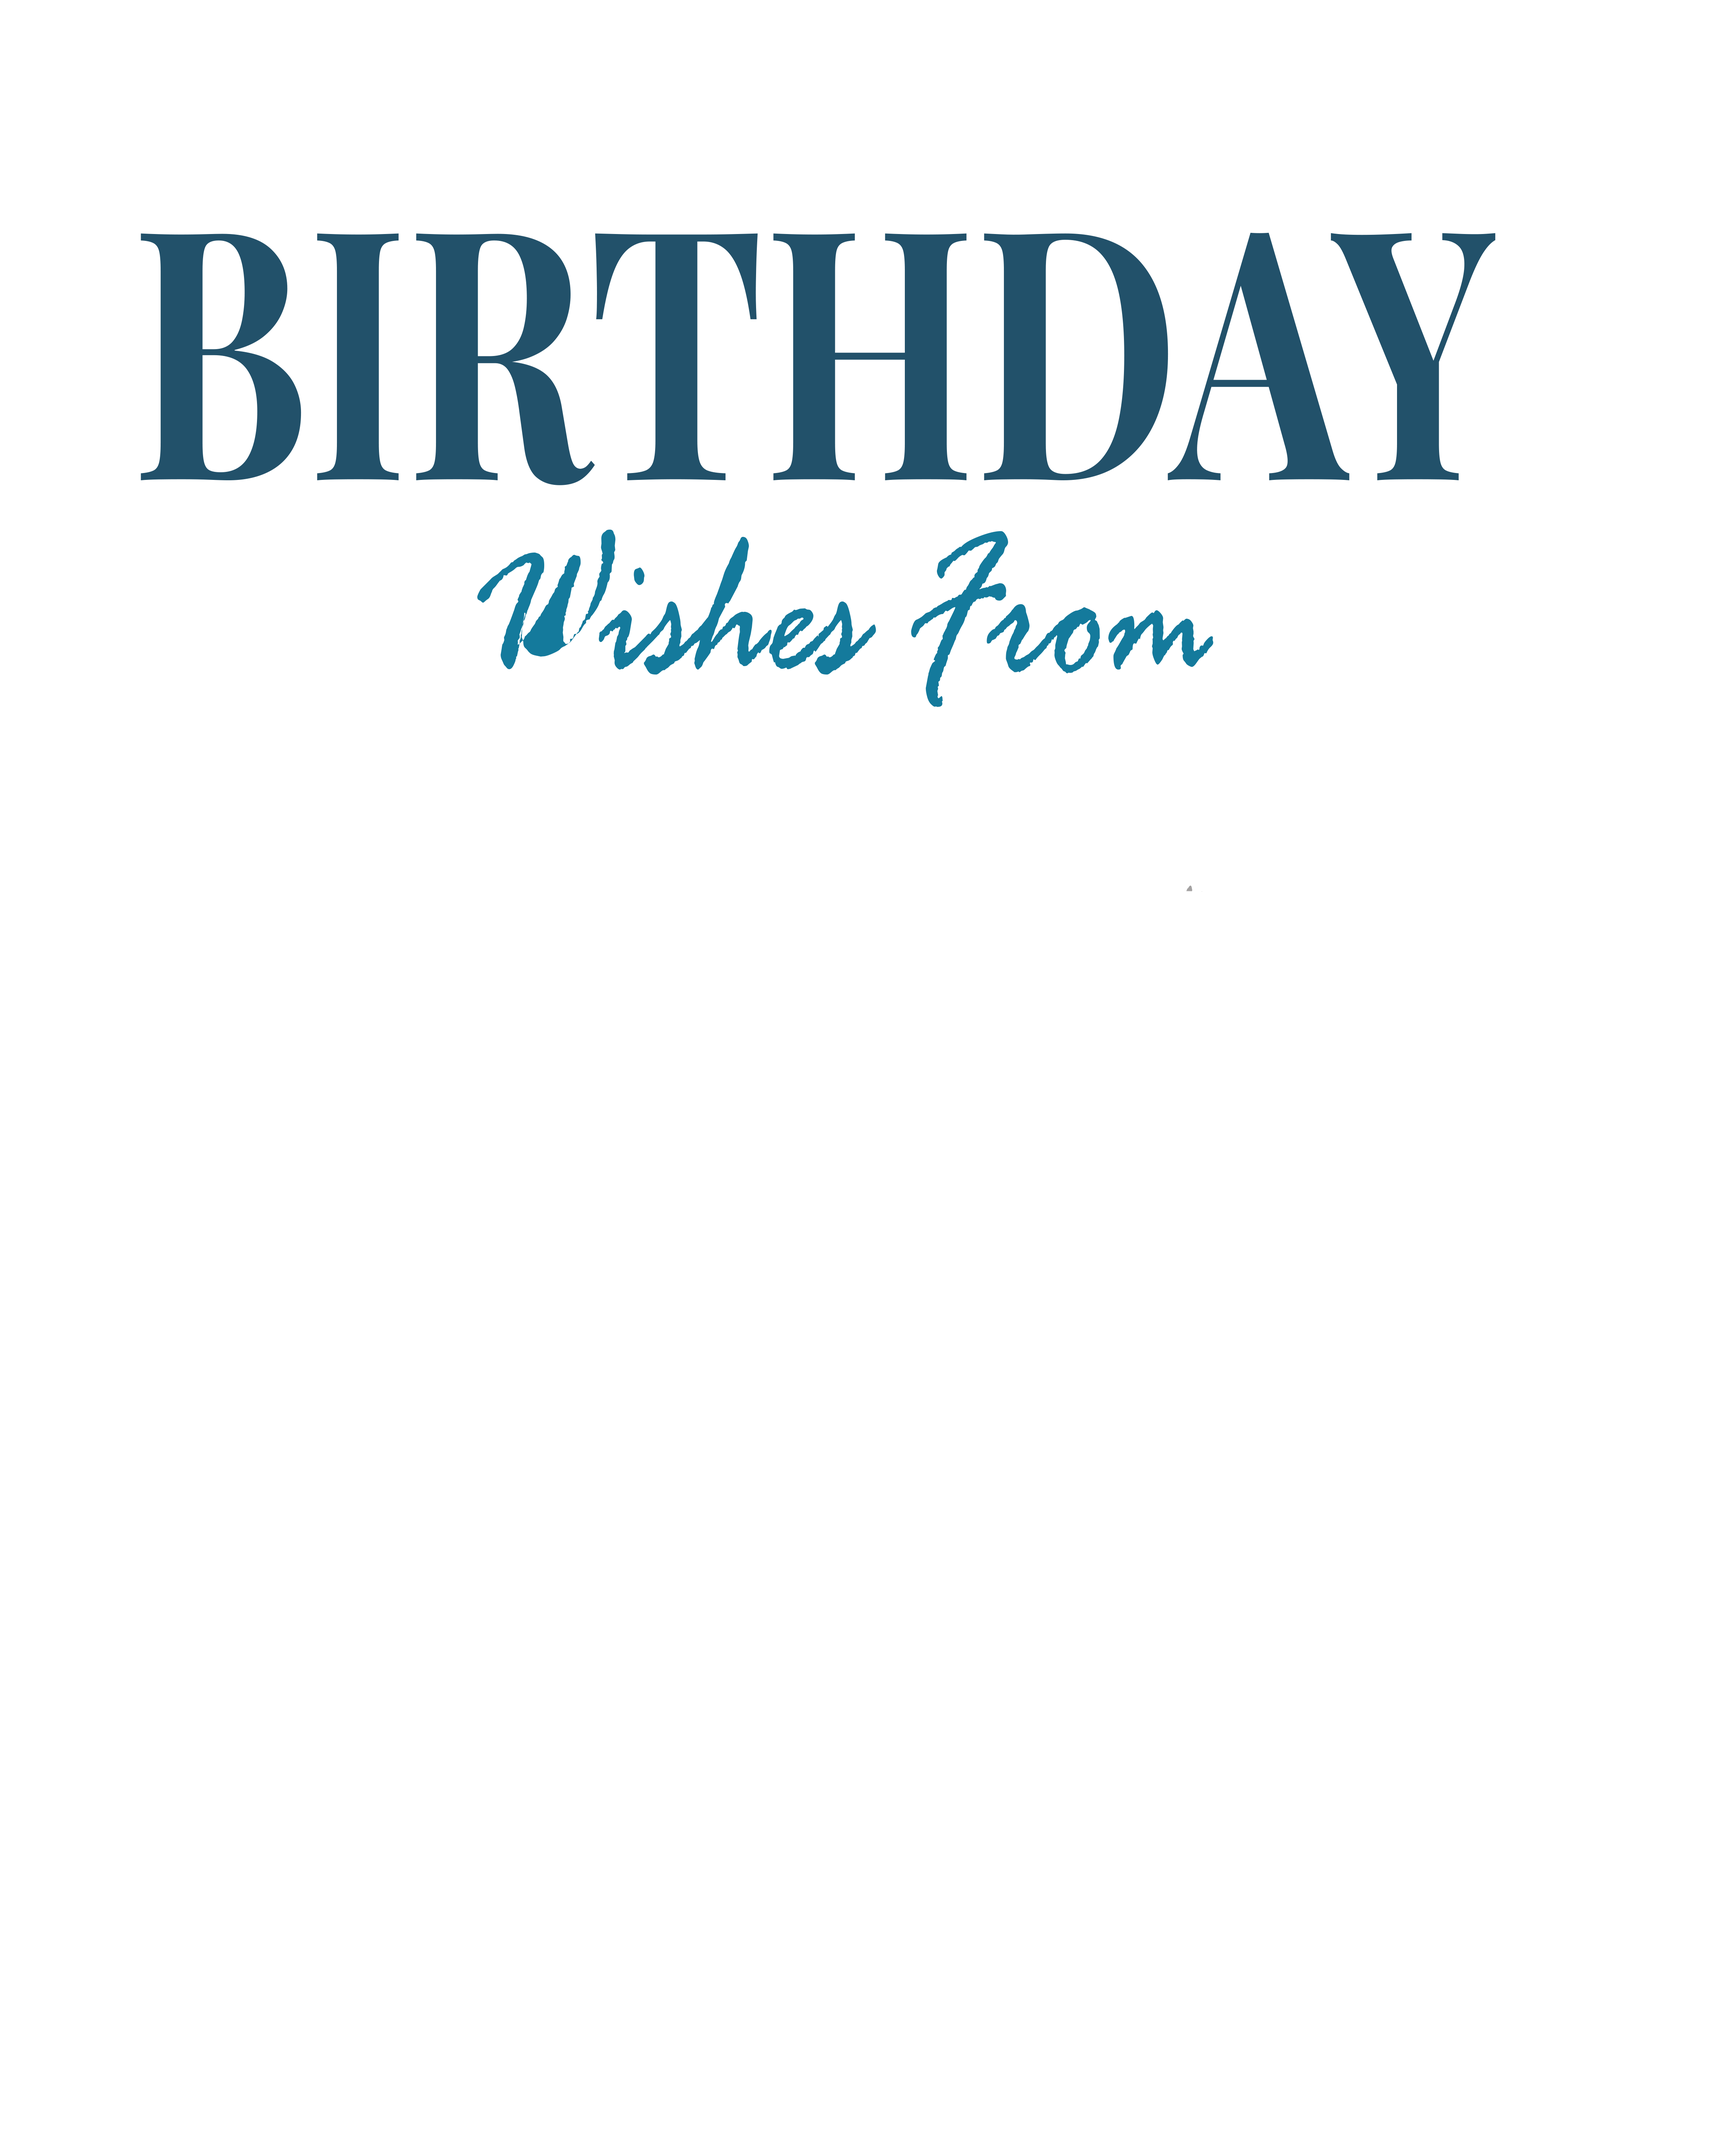
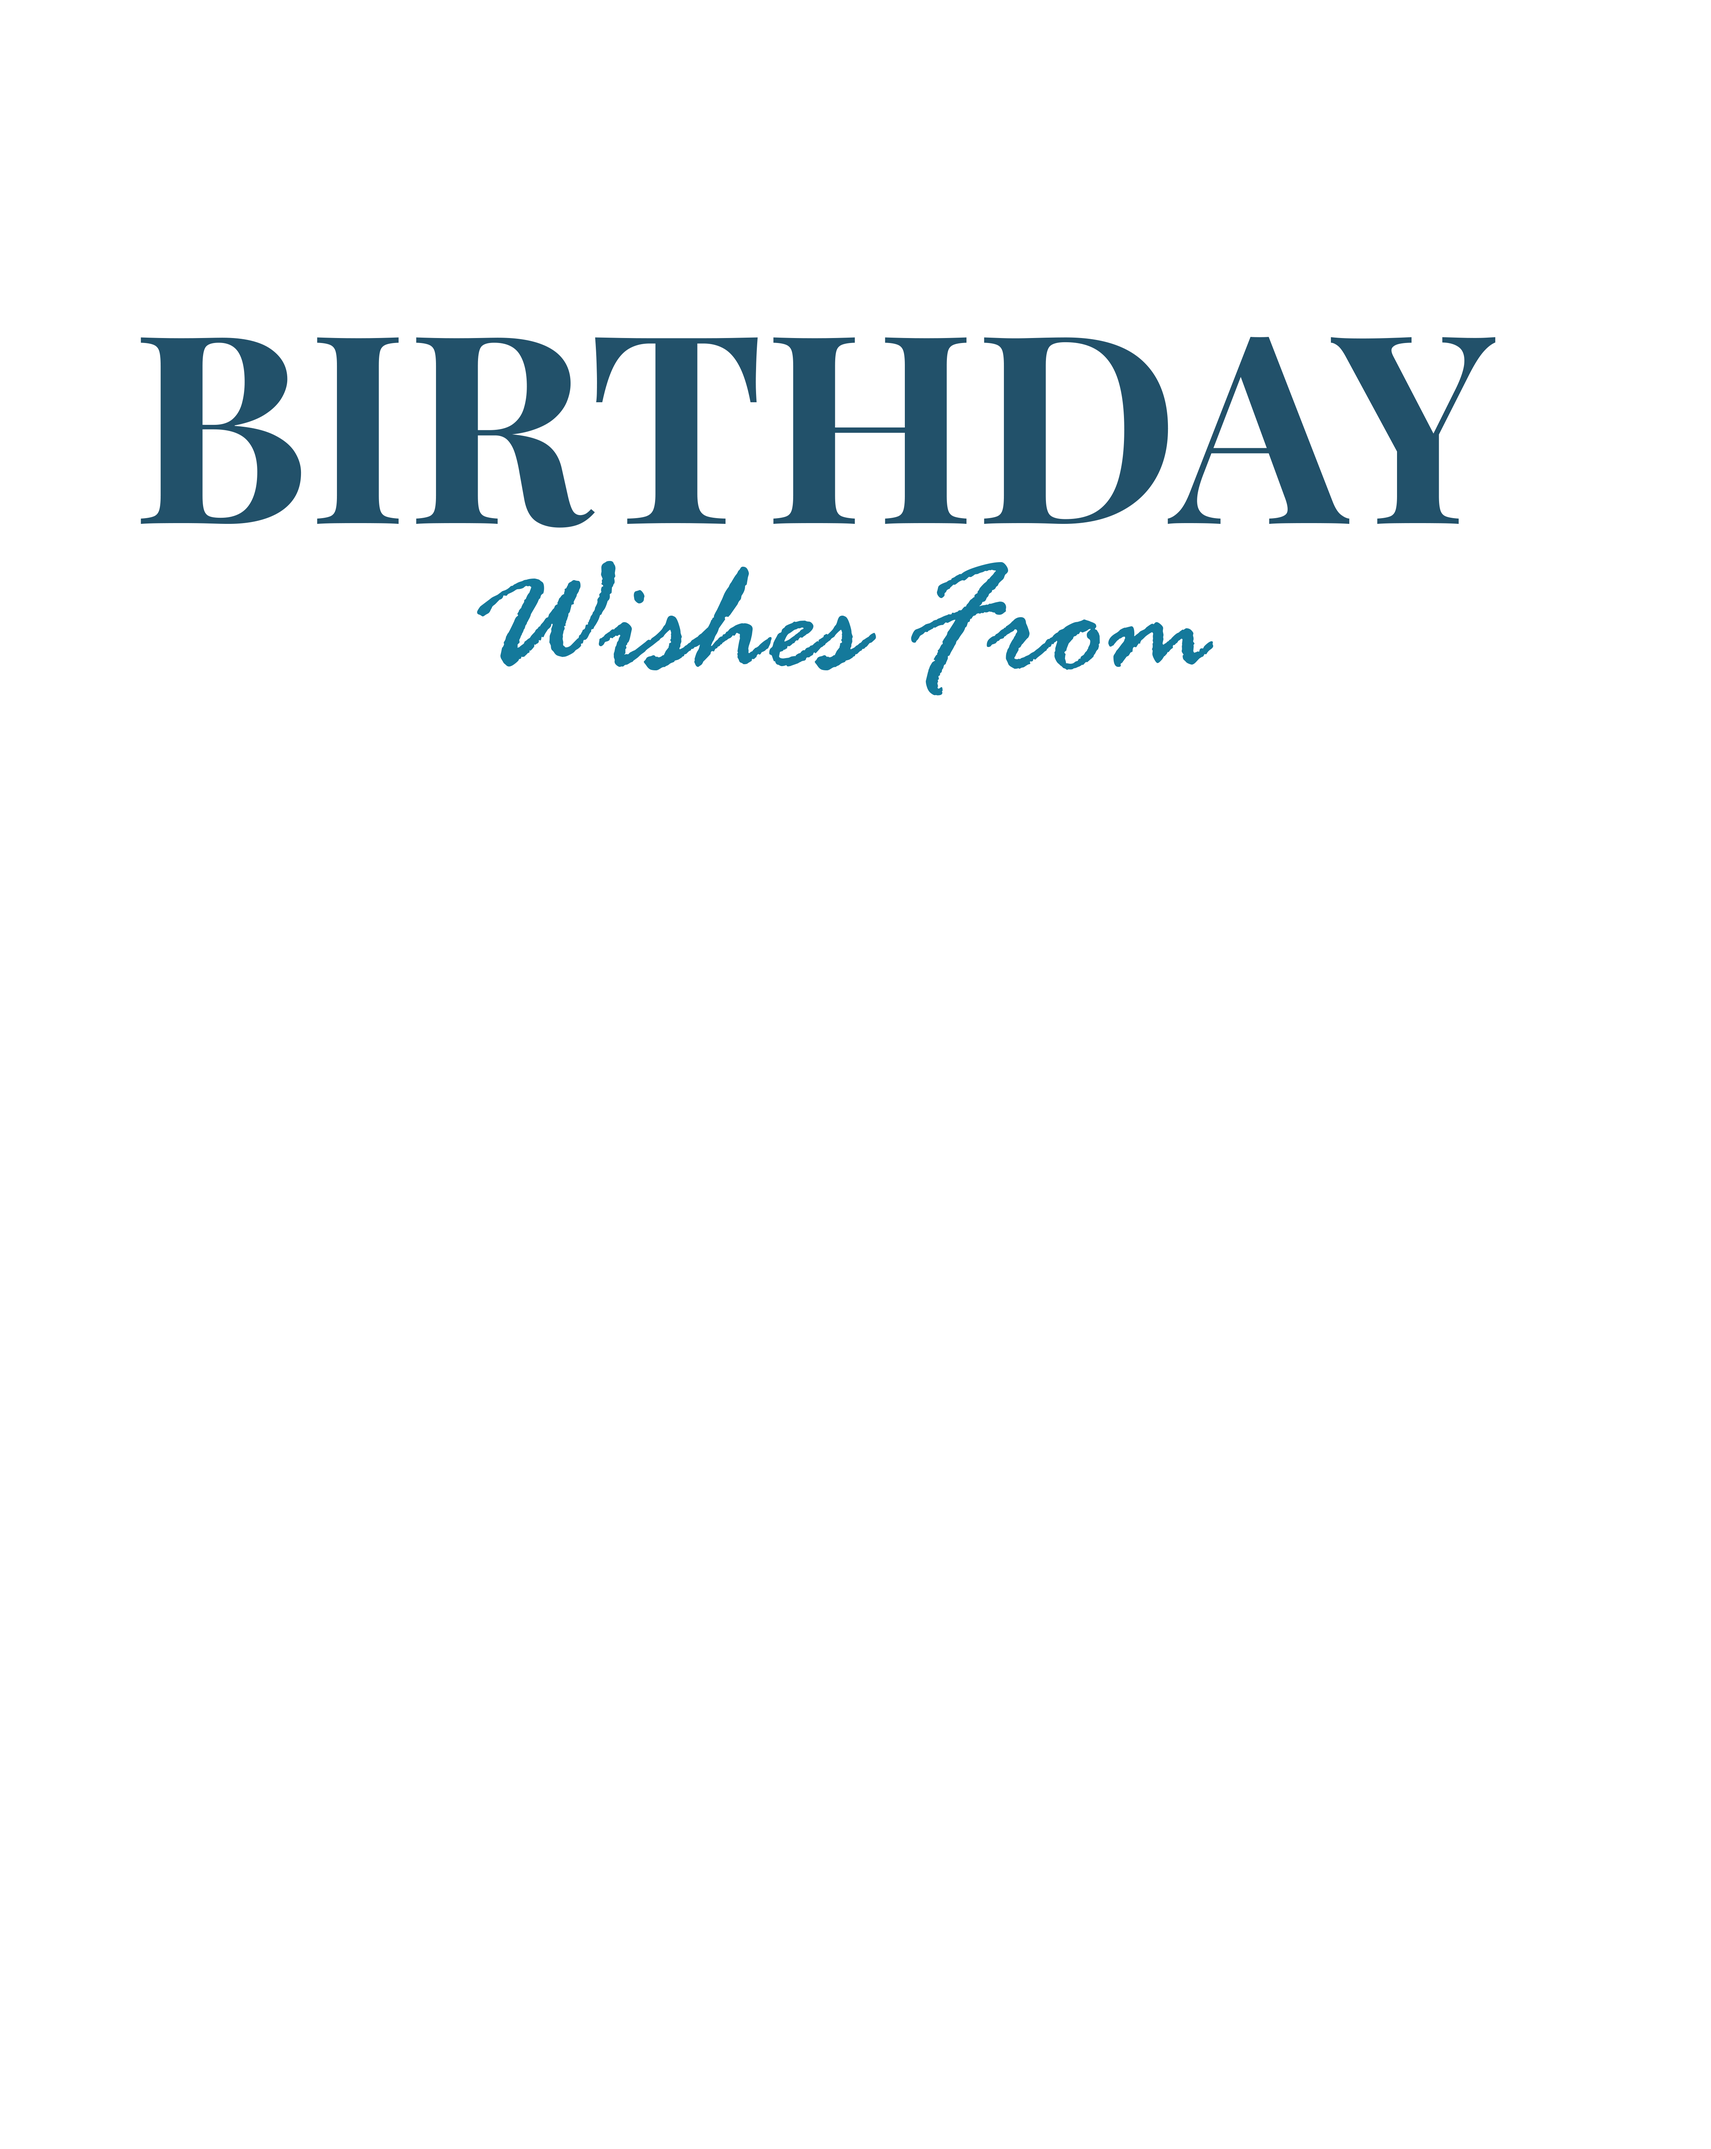
✨ feat: add positioned signatures to page

Changed region(s): [[0.0932, 0.0934, 0.8699, 0.3114]]

diff --git a/index.html b/index.html
@@ -26,6 +26,11 @@
         </div>
 
         <div class="input-group">
+          <label for="date">Birthday Date:</label>
+          <input type="date" id="date" value="" />
+        </div>
+
+        <div class="input-group">
           <label for="photo">Upload Photo:</label>
           <input type="file" id="photo" accept="image/*" />
         </div>
@@ -56,6 +61,8 @@
               <h2 id="cardName" class="staff-name">Your Name</h2>
             </div>
             <p id="cardDept" class="staff-dept">Your Department</p>
+            <p id="cardDate" class="staff-date"></p>
+
           </div>
         </article>
 
@@ -66,73 +73,84 @@
 
         <!-- PAGE 3: Wishes -->
         <article id="card-page3" class="printable-card card-page3">
+          <!-- Header -->
+          <!-- <div class="wishes-header">
+            <h1 class="wishes-title">
+              <span class="wishes-birthday">BIRTHDAY</span>
+              <span class="wishes-from">Wishes From</span>
+            </h1>
+          </div> -->
+
+          <!-- Signatures Container -->
           <div class="signatures-container">
             <!-- Row 1: 2 Signatures -->
             <div class="sig-row sig-row-2">
               <div class="signature-item">
-                <span class="sig-script">signature</span>
+                <img src="./public/sign/chairman.png" alt="Signature" class="sig-image">
                 <span class="sig-name">Dr C P Abdul Rahman</span>
+                <span class="sig-title">Chairman</span>
               </div>
               <div class="signature-item">
-                <span class="sig-script">signature</span>
+                <img src="./public/sign/president.png" alt="Signature" class="sig-image">
                 <span class="sig-name">Y Razia Rahman</span>
+                <span class="sig-title">President</span>
               </div>
             </div>
 
-            <!-- Row 2: 3 Signatures -->
-            <div class="sig-row sig-row-3">
+            <!-- Row 2: 2 Signatures -->
+            <div class="sig-row sig-row-2">
               <div class="signature-item">
-                <span class="sig-script">signature</span>
+                <img src="./public/sign/md.png" alt="Signature" class="sig-image">
                 <span class="sig-name">Dr C P Abdulla Yasser</span>
+                <span class="sig-title">Medical Director</span>
               </div>
               <div class="signature-item">
-                <span class="sig-script">signature</span>
-                <span class="sig-name">Aadil Salim</span>
-              </div>
-              <div class="signature-item">
-                <span class="sig-script">signature</span>
-                <span class="sig-name">Dr C P Moideen Zafar</span>
-              </div>
-            </div>
-
-            <!-- Row 3: 3 Signatures -->
-            <div class="sig-row sig-row-3">
-              <div class="signature-item">
-                <span class="sig-script">signature</span>
+                <img src="./public/sign/dadmin.png" alt="Signature" class="sig-image">
                 <span class="sig-name">Dr Shahida Mammassan</span>
-              </div>
-              <div class="signature-item">
-                <span class="sig-script">signature</span>
-                <span class="sig-name">Mariam Niloufer</span>
-              </div>
-              <div class="signature-item">
-                <span class="sig-script">signature</span>
-                <span class="sig-name">Rehaana Ashraf</span>
+                <span class="sig-title">Director Administration</span>
               </div>
             </div>
 
-            <!-- Row 4: 1 Signature (Family) -->
+            <!-- Row 3: 2 Signatures -->
+            <div class="sig-row sig-row-2">
+              <div class="signature-item">
+                <img src="./public/sign/hr.png" alt="Signature" class="sig-image">
+                <span class="sig-name">Mariam Niloufer</span>
+                <span class="sig-title">Director- HR</span>
+              </div>
+              <div class="signature-item">
+                <img src="./public/sign/dfinance.png" alt="Signature" class="sig-image">
+                <span class="sig-name">Dr C P Moideen Zafar</span>
+                <span class="sig-title">Director- Finance</span>
+              </div>
+            </div>
+
+            <!-- Row 4: 1 Signature (CEO) -->
             <div class="sig-row sig-row-1">
               <div class="signature-item">
-                <span class="sig-script">signature</span>
-                <span class="sig-name">Zayn, Jaide, Alisha & Raine</span>
+                <img src="./public/sign/ceo.png" alt="Signature" class="sig-image">
+                <span class="sig-name">Mr.Mohammed Yoonu N</span>
+                <span class="sig-title">CEO</span>
               </div>
             </div>
           </div>
         </article>
 
         <!-- PAGE 4: Specialties -->
-        <article id="card-page4" class="printable-card card-page4"></article>
+        <article id="card-page4" class="printable-card card-page4">
+        </article>
       </section>
     </div>
 
     <script>
       const nameInput = document.getElementById("name");
       const deptInput = document.getElementById("dept");
+      const dateInput = document.getElementById("date");
       const photoInput = document.getElementById("photo");
 
       const cardName = document.getElementById("cardName");
       const cardDept = document.getElementById("cardDept");
+      const cardDate = document.getElementById("cardDate");
       const photoContainer = document.getElementById("photoContainer");
 
       nameInput.addEventListener("input", (e) => {
@@ -141,6 +159,16 @@
 
       deptInput.addEventListener("input", (e) => {
         cardDept.textContent = e.target.value || "Your Department";
+      });
+
+      dateInput.addEventListener("input", (e) => {
+        if (e.target.value) {
+          const date = new Date(e.target.value);
+          const options = { year: 'numeric', month: 'long', day: 'numeric' };
+          cardDate.textContent = date.toLocaleDateString('en-US', options);
+        } else {
+          cardDate.textContent = "";
+        }
       });
 
       photoInput.addEventListener("change", (e) => {

diff --git a/css/style.css b/css/style.css
@@ -235,6 +235,15 @@ button:active {
   /* Reset capitalize */
 }
 
+.staff-date {
+  color: #ffffff;
+  font-family: "Georgia", serif;
+  font-size: 0.9em;
+  font-weight: normal;
+  text-align: center;
+  margin-top: 0.5em;
+}
+
 @media (max-width: 1024px) {
   .container {
     grid-template-columns: 1fr;
@@ -275,42 +284,78 @@ button:active {
 
 /* Page 3: Wishes From - REFINED */
 .card-page3 {
-  background-color: white;
+  /* Light cream background */
+  /* background-color: #f5f5f0; */
+  background-color: #FFFFFF;
   background-image: url(../public/img/3.png);
   background-size: contain;
-  background-position: center;
+  background-position: top;
   background-repeat: no-repeat;
   padding: 40px;
   display: flex;
   flex-direction: column;
   align-items: center;
-  /* Centered perfectly */
-  justify-content: flex-start;
-  padding-top: 60px;
+  justify-content: flex-end;
+  padding-top: 50px;
+}
+
+/* Wishes Header */
+.wishes-header {
+  text-align: center;
+  margin-bottom: 40px;
+}
+
+.wishes-title {
+  margin: 0;
+  line-height: 1.2;
+}
+
+.wishes-birthday {
+  display: block;
+  font-family: "Georgia", serif;
+  font-size: 3.5em;
+  font-weight: bold;
+  color: #2d5a6e;
+  /* Navy blue matching the image */
+  letter-spacing: 0.05em;
+  margin-bottom: 0.1em;
+}
+
+.wishes-from {
+  display: block;
+  font-family: "Brush Script MT", cursive;
+  font-size: 2.5em;
+  color: #1a9c8d;
+  /* Teal color */
+  font-weight: normal;
+  font-style: italic;
 }
 
 .signatures-container {
   width: 100%;
+  height: 70%;
+  margin-top: 1em;
   display: flex;
   flex-direction: column;
-  gap: 30px;
-  /* Tighter spacing */
-  margin-top: 17em;
+  gap: 0.7em;
+  /* Spacing between rows */
   align-items: center;
 }
 
 .sig-row {
   width: 100%;
   display: grid;
-  gap: 15px;
+  gap: 1em;
+  /* Horizontal gap between signatures */
   text-align: center;
 }
 
 .sig-row-2 {
   grid-template-columns: 1fr 1fr;
-  width: 70%;
-  /* Clustered closer */
+  width: 80%;
+  /* Wider for better spacing */
   margin: 0 auto;
+  justify-items: center;
 }
 
 .sig-row-3 {
@@ -323,14 +368,24 @@ button:active {
   display: flex;
   justify-content: center;
   width: 100%;
-  margin-top: 15px;
+  margin-top: 0px;
 }
 
 .signature-item {
+  position: relative;
+  height: 6em;
   display: flex;
   flex-direction: column;
   align-items: center;
   justify-content: center;
+}
+
+.sig-image {
+  position: absolute;
+  bottom: 3em;
+  width: auto;
+  height: 4.5em;
+  object-fit: contain;
 }
 
 .sig-script {
@@ -344,14 +399,29 @@ button:active {
 }
 
 .sig-name {
-  color: #1a9c8d;
-  /* Teal matching theme */
+  color: #147A9C;
   font-weight: bold;
-  font-size: 0.8em;
-  font-family: "Arial", sans-serif;
+  font-size: 0.9em;
+  font-family: "Georgia", serif;
   white-space: nowrap;
-  letter-spacing: 0.5px;
+  border-bottom: 0.16em solid #147A9C;
+  /* Underline matching text color */
+  display: inline-block;
 }
+
+.sig-title {
+  color: #ffffff;
+  min-width: 9em;
+  background-color: #147A9C;
+  font-weight: 500;
+  font-size: 0.70em;
+  font-family: "Arial", sans-serif;
+  padding: 0.1em 1.2em;
+  border-radius: 0.3em;
+  white-space: nowrap;
+  letter-spacing: 0.3px;
+}
+
 
 /* Page 4: Specialties */
 .card-page4 {
